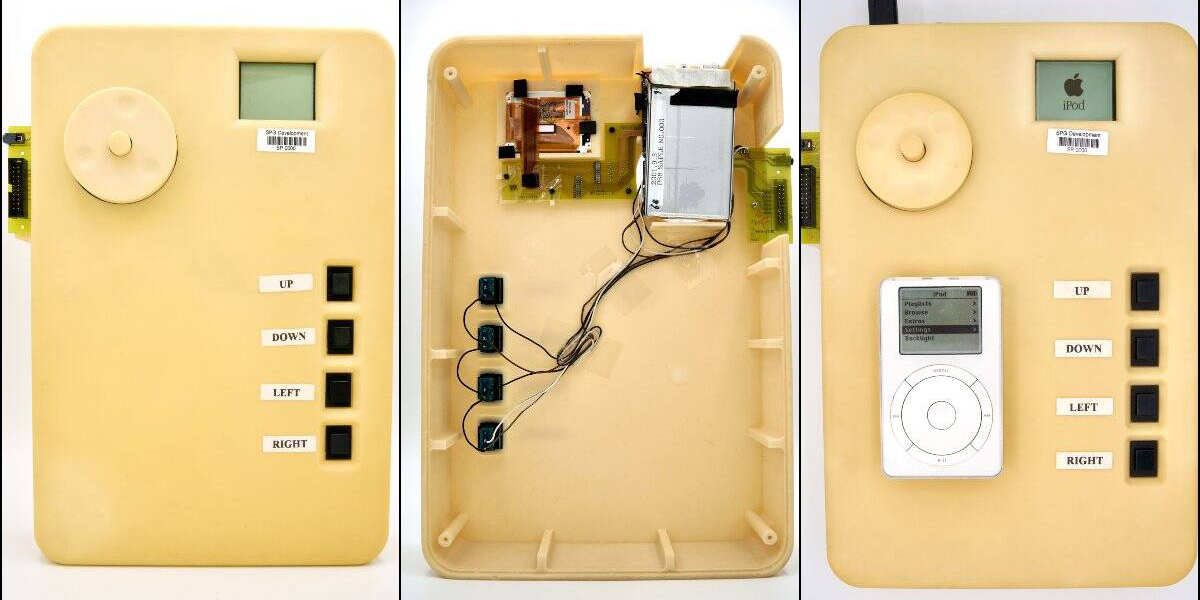
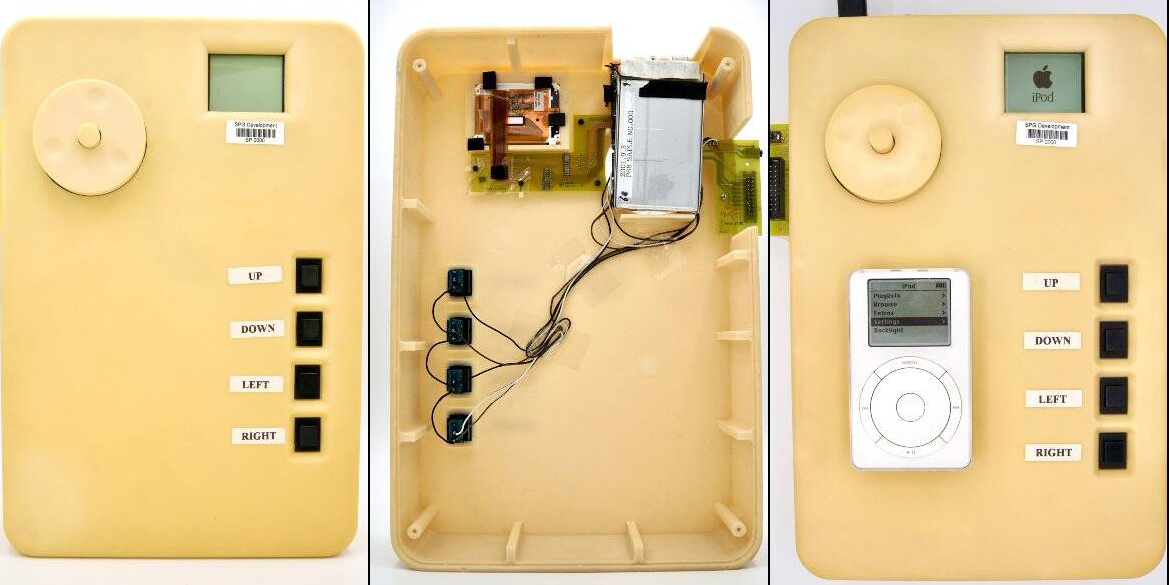
update project 4

diff --git a/project4.html b/project4.html
@@ -62,7 +62,7 @@
         </h3><br>
         <img style="width: 20%;"src="./light1.jpeg" alt="light1.jpeg">
         <img style="width: 20%;"src="./light2.jpeg" alt="light2.jpeg">
-        <img style="width: 40%;"src="./ipod.jpg" alt="ipod.jpg">
+        <img style="width: 40%;"src="./ipod2.jpg" alt="ipod2.jpg">
         <br><br>
         <p style="margin-right: 20%;">
           Some light switches have an automatic sensor that when no light is detected will display an led light on 
